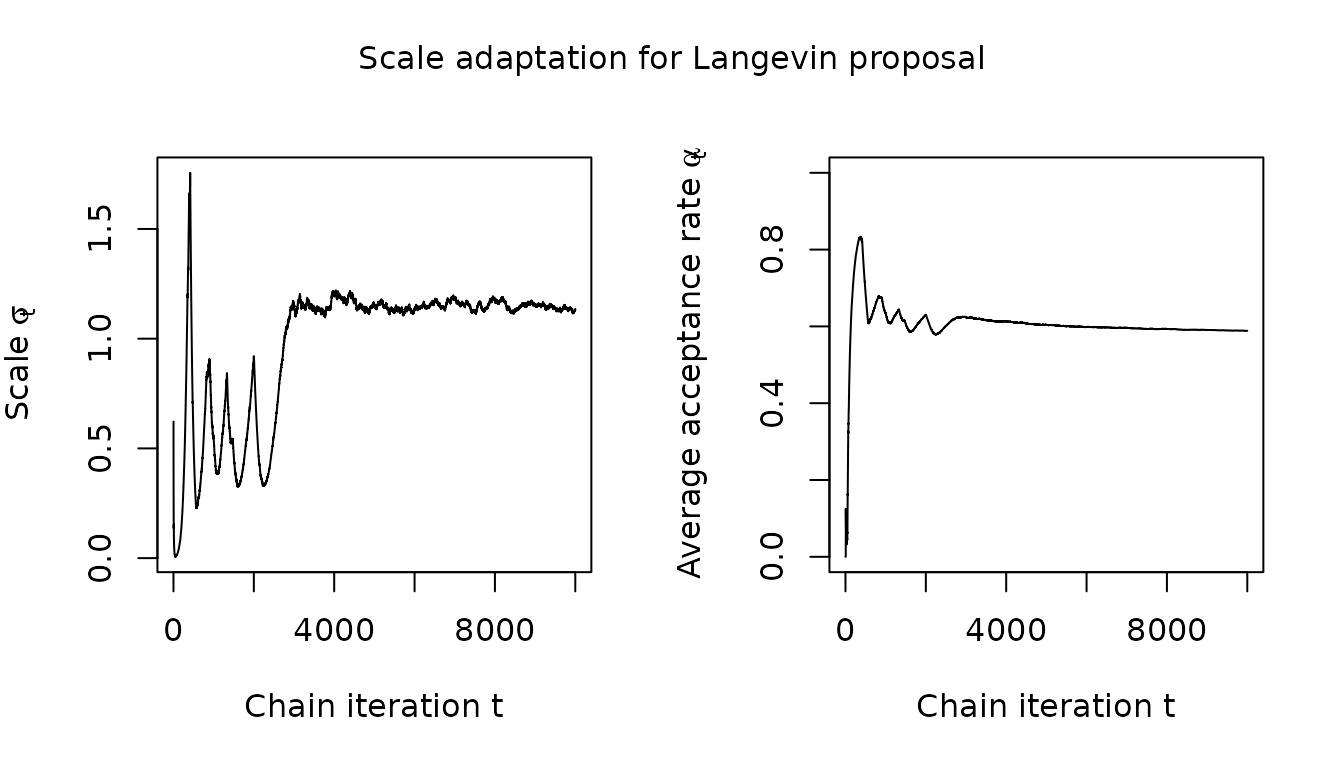
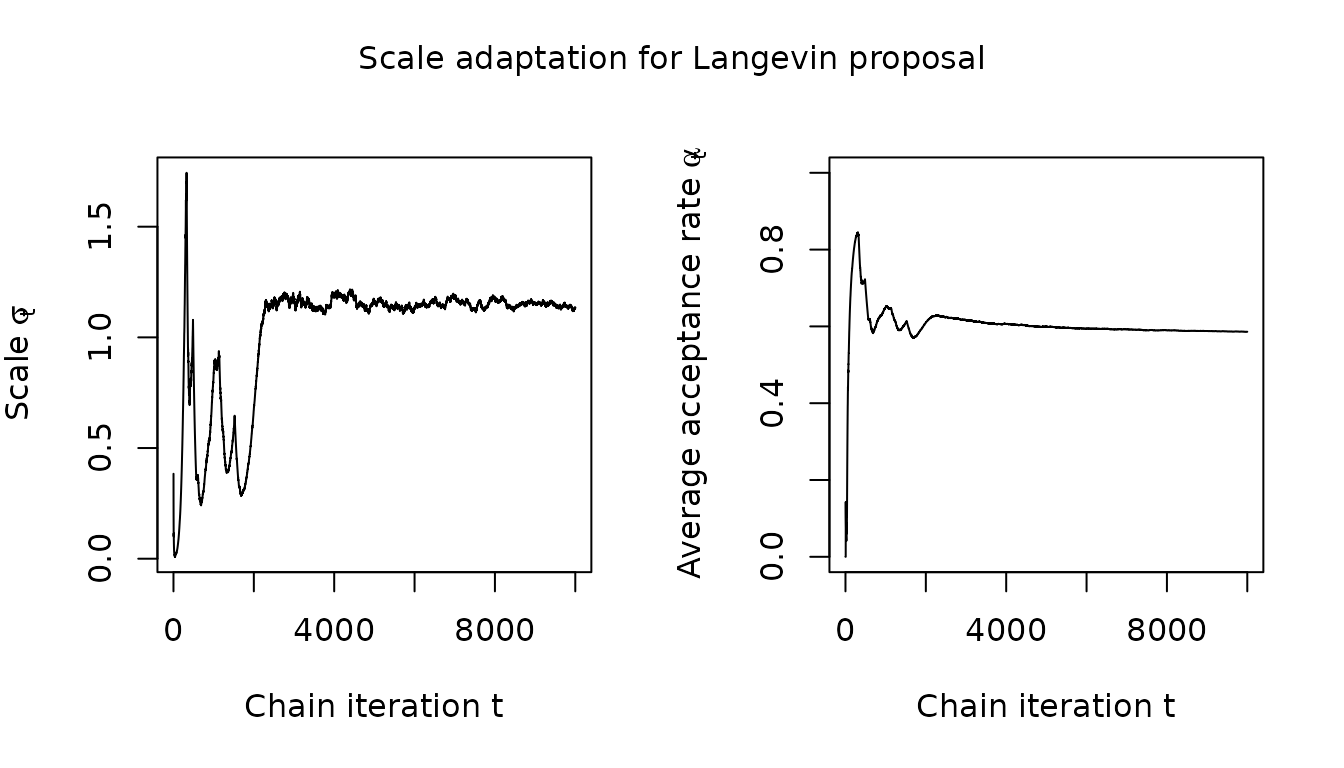
Deploying to gh-pages from @ UCL/rmcmc@68d5de52ab73f8508fa9621f169f3a752a493130 🚀

diff --git a/articles/barker-proposal.html b/articles/barker-proposal.html
@@ -151,22 +151,18 @@ distribution.</p>
 <div class="sourceCode" id="cb5"><pre class="downlit sourceCode r">
 <code class="sourceCode R"><span><span class="va">adapters</span> <span class="op">&lt;-</span> <span class="fu"><a href="https://rdrr.io/r/base/list.html" class="external-link">list</a></span><span class="op">(</span></span>
 <span>  <span class="fu"><a href="../reference/simple_scale_adapter.html">simple_scale_adapter</a></span><span class="op">(</span></span>
-<span>    initial_scale <span class="op">=</span> <span class="fl">2.38</span><span class="op">^</span><span class="fl">2</span> <span class="op">/</span> <span class="va">dimension</span><span class="op">^</span><span class="op">(</span><span class="fl">1</span> <span class="op">/</span> <span class="fl">3</span><span class="op">)</span>,</span>
-<span>    target_accept_prob <span class="op">=</span> <span class="fl">0.4</span></span>
+<span>    initial_scale <span class="op">=</span> <span class="va">dimension</span><span class="op">^</span><span class="op">(</span><span class="op">-</span><span class="fl">1</span> <span class="op">/</span> <span class="fl">6</span><span class="op">)</span>,</span>
+<span>    target_accept_prob <span class="op">=</span> <span class="fl">0.574</span></span>
 <span>  <span class="op">)</span>,</span>
 <span>  <span class="fu"><a href="../reference/variance_shape_adapter.html">variance_shape_adapter</a></span><span class="op">(</span><span class="op">)</span></span>
 <span><span class="op">)</span></span></code></pre></div>
 <p>Here we set the initial scale to
-<math display="inline" xmlns="http://www.w3.org/1998/Math/MathML"><semantics><mrow><msup><mn>2.38</mn><mn>2</mn></msup><mi>/</mi><msup><mrow><mo stretchy="true" form="prefix">(</mo><mtext mathvariant="normal">dimension</mtext><mo stretchy="true" form="postfix">)</mo></mrow><mfrac><mn>1</mn><mn>3</mn></mfrac></msup></mrow><annotation encoding="application/x-tex">2.38^2/(\text{dimension})^{\frac{1}{3}}</annotation></semantics></math>
-following the results for MALA in <span class="citation">Roberts and
-Rosenthal (<a href="#ref-roberts2001optimal">2001</a>)</span>, and set
-the target acceptance probability to 0.4 following the guideline in
-<span class="citation">Livingstone and Zanella (<a href="#ref-livingstone2022barker">2022</a>)</span>. This is equivalent
-to the default behaviour when not specifying the
-<code>initial_scale</code> and <code>target_accept_prob</code>
-arguments, in which case proposal and dimension dependent values
-following the guidelines in <span class="citation">Roberts and Rosenthal
-(<a href="#ref-roberts2001optimal">2001</a>)</span> and <span class="citation">Livingstone and Zanella (<a href="#ref-livingstone2022barker">2022</a>)</span> will be used. Both
+<math display="inline" xmlns="http://www.w3.org/1998/Math/MathML"><semantics><mrow><mi>𝒪</mi><mrow><mo stretchy="true" form="prefix">(</mo><msup><mtext mathvariant="normal">dimension</mtext><mrow><mo>−</mo><mfrac><mn>1</mn><mn>6</mn></mfrac></mrow></msup><mo stretchy="true" form="postfix">)</mo></mrow></mrow><annotation encoding="application/x-tex">\mathcal{O}(\text{dimension}^{-\frac{1}{6}})</annotation></semantics></math>
+and the target acceptance probability to 0.574 following the guidelines
+in <span class="citation">Vogrinc, Livingstone, and Zanella (<a href="#ref-vogrinc2023optimal">2023</a>)</span>. This is equivalent to
+the default behaviour when not specifying the <code>initial_scale</code>
+and <code>target_accept_prob</code> arguments, in which case proposal
+and dimension dependent values following the guidelines in <span class="citation">Vogrinc, Livingstone, and Zanella (<a href="#ref-vogrinc2023optimal">2023</a>)</span> will be used. Both
 adapters have an optional <code>kappa</code> argument which can be used
 to set the decay rate exponent for the adaptation learning rate. We
 leave this as the default value of 0.6 (following the recommendation in
@@ -205,9 +201,13 @@ non-adaptive main chain iterations and list of adapters to use.</p>
 <div class="sourceCode" id="cb7"><pre class="downlit sourceCode r">
 <code class="sourceCode R"><span><span class="va">n_warm_up_iteration</span> <span class="op">&lt;-</span> <span class="fl">10000</span></span>
 <span><span class="va">n_main_iteration</span> <span class="op">&lt;-</span> <span class="fl">10000</span></span></code></pre></div>
-<p>Here we sample a chain with 10^{4} warm-up and 10^{4} main chain
-iterations. We set <code>trace_warm_up</code> to <code>TRUE</code> to
-record statistics during the adaptive warm-up chain iterations.</p>
+<p>Here we sample a chain with
+<math display="inline" xmlns="http://www.w3.org/1998/Math/MathML"><semantics><msup><mn>10</mn><mn>4</mn></msup><annotation encoding="application/x-tex">10^{4}</annotation></semantics></math>
+warm-up and
+<math display="inline" xmlns="http://www.w3.org/1998/Math/MathML"><semantics><msup><mn>10</mn><mn>4</mn></msup><annotation encoding="application/x-tex">10^{4}</annotation></semantics></math>
+main chain iterations. We set <code>trace_warm_up</code> to
+<code>TRUE</code> to record statistics during the adaptive warm-up chain
+iterations.</p>
 <div class="sourceCode" id="cb8"><pre class="downlit sourceCode r">
 <code class="sourceCode R"><span><span class="va">barker_results</span> <span class="op">&lt;-</span> <span class="fu"><a href="../reference/sample_chain.html">sample_chain</a></span><span class="op">(</span></span>
 <span>  target_distribution <span class="op">=</span> <span class="va">target_distribution</span>,</span>
@@ -237,8 +237,8 @@ probability of the main chain iterations as follows:</p>
 <div class="sourceCode" id="cb9"><pre class="downlit sourceCode r">
 <code class="sourceCode R"><span><span class="va">mean_accept_prob</span> <span class="op">&lt;-</span> <span class="fu"><a href="https://rdrr.io/r/base/mean.html" class="external-link">mean</a></span><span class="op">(</span><span class="va">barker_results</span><span class="op">$</span><span class="va">statistics</span><span class="op">[</span>, <span class="st">"accept_prob"</span><span class="op">]</span><span class="op">)</span></span>
 <span><span class="fu"><a href="https://rdrr.io/r/base/cat.html" class="external-link">cat</a></span><span class="op">(</span><span class="fu"><a href="https://rdrr.io/r/base/sprintf.html" class="external-link">sprintf</a></span><span class="op">(</span><span class="st">"Average acceptance probability is %.2f"</span>, <span class="va">mean_accept_prob</span><span class="op">)</span><span class="op">)</span></span>
-<span><span class="co">#&gt; Average acceptance probability is 0.38</span></span></code></pre></div>
-<p>This is close to the target acceptance rate of 0.4 indicating the
+<span><span class="co">#&gt; Average acceptance probability is 0.57</span></span></code></pre></div>
+<p>This is close to the target acceptance rate of 0.574 indicating the
 scale adaptation worked as expected.</p>
 <p>We can also inspect the shape parameter of the proposal to check the
 variance based shape adaptation succeeded. The below snippet extracts
@@ -253,7 +253,7 @@ the (first few dimensions of the) adapted shape from the
 <span>  <span class="fu"><a href="https://rdrr.io/r/base/sprintf.html" class="external-link">sprintf</a></span><span class="op">(</span><span class="st">"True target scales: %s"</span>, <span class="fu"><a href="https://rdrr.io/r/base/toString.html" class="external-link">toString</a></span><span class="op">(</span><span class="va">scales</span><span class="op">[</span><span class="fl">1</span><span class="op">:</span><span class="va">clipped_dimension</span><span class="op">]</span><span class="op">)</span><span class="op">)</span>,</span>
 <span>  sep <span class="op">=</span> <span class="st">"\n"</span></span>
 <span><span class="op">)</span></span>
-<span><span class="co">#&gt; Adapter scale est.: 0.0106860943277528, 0.90522823483678, 0.847338974552089, 0.764798716268774, 0.758552106344874</span></span>
+<span><span class="co">#&gt; Adapter scale est.: 0.00837397174060859, 0.903666144812827, 0.743247392562424, 0.867223071521973, 0.93934619853388</span></span>
 <span><span class="co">#&gt; True target scales: 0.01, 1, 1, 1, 1</span></span></code></pre></div>
 <p>Again adaptation appears to have been successful with the adapted
 shape close to the true target scales.</p>
@@ -289,17 +289,17 @@ of summary statistics and diagnostic measures for each variable.</p>
 <span><span class="co">#&gt; <span style="color: #949494;"># A tibble: 11 × 10</span></span></span>
 <span><span class="co">#&gt;    variable         mean   median      sd     mad      q5     q95  rhat ess_bulk</span></span>
 <span><span class="co">#&gt;    <span style="color: #949494; font-style: italic;">&lt;chr&gt;</span>           <span style="color: #949494; font-style: italic;">&lt;dbl&gt;</span>    <span style="color: #949494; font-style: italic;">&lt;dbl&gt;</span>   <span style="color: #949494; font-style: italic;">&lt;dbl&gt;</span>   <span style="color: #949494; font-style: italic;">&lt;dbl&gt;</span>   <span style="color: #949494; font-style: italic;">&lt;dbl&gt;</span>   <span style="color: #949494; font-style: italic;">&lt;dbl&gt;</span> <span style="color: #949494; font-style: italic;">&lt;dbl&gt;</span>    <span style="color: #949494; font-style: italic;">&lt;dbl&gt;</span></span></span>
-<span><span class="co">#&gt; <span style="color: #BCBCBC;"> 1</span> position1    -<span style="color: #BB0000;">2.39</span><span style="color: #949494;">e</span><span style="color: #BB0000;">-4</span> -<span style="color: #BB0000;">2.30</span><span style="color: #949494;">e</span><span style="color: #BB0000;">-4</span> 0.009<span style="text-decoration: underline;">19</span> 0.009<span style="text-decoration: underline;">81</span> -<span style="color: #BB0000;">0.015</span><span style="color: #BB0000; text-decoration: underline;">3</span>  0.014<span style="text-decoration: underline;">7</span>  1.00    <span style="text-decoration: underline;">1</span>654.</span></span>
-<span><span class="co">#&gt; <span style="color: #BCBCBC;"> 2</span> position2     1.13<span style="color: #949494;">e</span><span style="color: #BB0000;">-2</span> -<span style="color: #BB0000;">2.48</span><span style="color: #949494;">e</span><span style="color: #BB0000;">-2</span> 0.906   0.967   -<span style="color: #BB0000;">1.39</span>    1.55    1.00    <span style="text-decoration: underline;">1</span>227.</span></span>
-<span><span class="co">#&gt; <span style="color: #BCBCBC;"> 3</span> position3     3.96<span style="color: #949494;">e</span><span style="color: #BB0000;">-2</span>  6.50<span style="color: #949494;">e</span><span style="color: #BB0000;">-2</span> 0.898   0.906   -<span style="color: #BB0000;">1.48</span>    1.49    1.00    <span style="text-decoration: underline;">1</span>105.</span></span>
-<span><span class="co">#&gt; <span style="color: #BCBCBC;"> 4</span> position4     1.77<span style="color: #949494;">e</span><span style="color: #BB0000;">-2</span>  2.20<span style="color: #949494;">e</span><span style="color: #BB0000;">-2</span> 0.881   0.925   -<span style="color: #BB0000;">1.44</span>    1.49    1.00     961.</span></span>
-<span><span class="co">#&gt; <span style="color: #BCBCBC;"> 5</span> position5     1.25<span style="color: #949494;">e</span><span style="color: #BB0000;">-2</span> -<span style="color: #BB0000;">1.56</span><span style="color: #949494;">e</span><span style="color: #BB0000;">-2</span> 0.895   0.940   -<span style="color: #BB0000;">1.46</span>    1.50    1.00     912.</span></span>
-<span><span class="co">#&gt; <span style="color: #BCBCBC;"> 6</span> position6    -<span style="color: #BB0000;">3.60</span><span style="color: #949494;">e</span><span style="color: #BB0000;">-2</span> -<span style="color: #BB0000;">2.38</span><span style="color: #949494;">e</span><span style="color: #BB0000;">-2</span> 0.900   0.903   -<span style="color: #BB0000;">1.50</span>    1.44    1.00     925.</span></span>
-<span><span class="co">#&gt; <span style="color: #BCBCBC;"> 7</span> position7     7.59<span style="color: #949494;">e</span><span style="color: #BB0000;">-3</span>  8.81<span style="color: #949494;">e</span><span style="color: #BB0000;">-4</span> 0.894   0.909   -<span style="color: #BB0000;">1.45</span>    1.52    1.00    <span style="text-decoration: underline;">1</span>163.</span></span>
-<span><span class="co">#&gt; <span style="color: #BCBCBC;"> 8</span> position8    -<span style="color: #BB0000;">4.03</span><span style="color: #949494;">e</span><span style="color: #BB0000;">-3</span>  1.02<span style="color: #949494;">e</span><span style="color: #BB0000;">-2</span> 0.928   0.970   -<span style="color: #BB0000;">1.53</span>    1.53    1.01     901.</span></span>
-<span><span class="co">#&gt; <span style="color: #BCBCBC;"> 9</span> position9    -<span style="color: #BB0000;">4.57</span><span style="color: #949494;">e</span><span style="color: #BB0000;">-2</span> -<span style="color: #BB0000;">8.32</span><span style="color: #949494;">e</span><span style="color: #BB0000;">-2</span> 0.908   0.905   -<span style="color: #BB0000;">1.53</span>    1.50    1.00    <span style="text-decoration: underline;">1</span>042.</span></span>
-<span><span class="co">#&gt; <span style="color: #BCBCBC;">10</span> position10   -<span style="color: #BB0000;">1.50</span><span style="color: #949494;">e</span><span style="color: #BB0000;">-2</span> -<span style="color: #BB0000;">1.15</span><span style="color: #949494;">e</span><span style="color: #BB0000;">-2</span> 0.931   0.977   -<span style="color: #BB0000;">1.53</span>    1.47    1.00    <span style="text-decoration: underline;">1</span>398.</span></span>
-<span><span class="co">#&gt; <span style="color: #BCBCBC;">11</span> target_log_… -<span style="color: #BB0000;">4.11</span><span style="color: #949494;">e</span>+0 -<span style="color: #BB0000;">4.00</span><span style="color: #949494;">e</span>+0 1.59    1.58    -<span style="color: #BB0000;">6.94</span>   -<span style="color: #BB0000;">1.78</span>    1.00     831.</span></span>
+<span><span class="co">#&gt; <span style="color: #BCBCBC;"> 1</span> position1     2.56<span style="color: #949494;">e</span><span style="color: #BB0000;">-5</span>  8.66<span style="color: #949494;">e</span><span style="color: #BB0000;">-5</span> 0.008<span style="text-decoration: underline;">68</span> 0.008<span style="text-decoration: underline;">92</span> -<span style="color: #BB0000;">0.014</span><span style="color: #BB0000; text-decoration: underline;">6</span>  0.014<span style="text-decoration: underline;">2</span>  1.00     964.</span></span>
+<span><span class="co">#&gt; <span style="color: #BCBCBC;"> 2</span> position2     2.33<span style="color: #949494;">e</span><span style="color: #BB0000;">-2</span>  4.24<span style="color: #949494;">e</span><span style="color: #BB0000;">-2</span> 0.868   0.904   -<span style="color: #BB0000;">1.40</span>    1.46    1.00    <span style="text-decoration: underline;">1</span>031.</span></span>
+<span><span class="co">#&gt; <span style="color: #BCBCBC;"> 3</span> position3     5.41<span style="color: #949494;">e</span><span style="color: #BB0000;">-2</span>  4.50<span style="color: #949494;">e</span><span style="color: #BB0000;">-2</span> 0.843   0.844   -<span style="color: #BB0000;">1.31</span>    1.43    1.00     685.</span></span>
+<span><span class="co">#&gt; <span style="color: #BCBCBC;"> 4</span> position4    -<span style="color: #BB0000;">1.91</span><span style="color: #949494;">e</span><span style="color: #BB0000;">-2</span> -<span style="color: #BB0000;">2.46</span><span style="color: #949494;">e</span><span style="color: #BB0000;">-2</span> 0.879   0.899   -<span style="color: #BB0000;">1.45</span>    1.43    1.00     831.</span></span>
+<span><span class="co">#&gt; <span style="color: #BCBCBC;"> 5</span> position5     2.52<span style="color: #949494;">e</span><span style="color: #BB0000;">-2</span>  2.64<span style="color: #949494;">e</span><span style="color: #BB0000;">-2</span> 0.883   0.909   -<span style="color: #BB0000;">1.42</span>    1.49    1.00    <span style="text-decoration: underline;">1</span>188.</span></span>
+<span><span class="co">#&gt; <span style="color: #BCBCBC;"> 6</span> position6     2.39<span style="color: #949494;">e</span><span style="color: #BB0000;">-2</span>  1.45<span style="color: #949494;">e</span><span style="color: #BB0000;">-2</span> 0.872   0.910   -<span style="color: #BB0000;">1.42</span>    1.45    1.00     717.</span></span>
+<span><span class="co">#&gt; <span style="color: #BCBCBC;"> 7</span> position7     2.02<span style="color: #949494;">e</span><span style="color: #BB0000;">-2</span>  2.62<span style="color: #949494;">e</span><span style="color: #BB0000;">-2</span> 0.844   0.853   -<span style="color: #BB0000;">1.39</span>    1.40    1.00     798.</span></span>
+<span><span class="co">#&gt; <span style="color: #BCBCBC;"> 8</span> position8    -<span style="color: #BB0000;">2.68</span><span style="color: #949494;">e</span><span style="color: #BB0000;">-2</span> -<span style="color: #BB0000;">3.56</span><span style="color: #949494;">e</span><span style="color: #BB0000;">-2</span> 0.852   0.856   -<span style="color: #BB0000;">1.44</span>    1.40    1.00     700.</span></span>
+<span><span class="co">#&gt; <span style="color: #BCBCBC;"> 9</span> position9    -<span style="color: #BB0000;">4.67</span><span style="color: #949494;">e</span><span style="color: #BB0000;">-2</span> -<span style="color: #BB0000;">4.58</span><span style="color: #949494;">e</span><span style="color: #BB0000;">-2</span> 0.870   0.902   -<span style="color: #BB0000;">1.45</span>    1.37    1.00    <span style="text-decoration: underline;">1</span>088.</span></span>
+<span><span class="co">#&gt; <span style="color: #BCBCBC;">10</span> position10   -<span style="color: #BB0000;">3.19</span><span style="color: #949494;">e</span><span style="color: #BB0000;">-2</span> -<span style="color: #BB0000;">4.29</span><span style="color: #949494;">e</span><span style="color: #BB0000;">-2</span> 0.855   0.899   -<span style="color: #BB0000;">1.40</span>    1.36    1.00     927.</span></span>
+<span><span class="co">#&gt; <span style="color: #BCBCBC;">11</span> target_log_… -<span style="color: #BB0000;">3.73</span><span style="color: #949494;">e</span>+0 -<span style="color: #BB0000;">3.58</span><span style="color: #949494;">e</span>+0 1.47    1.45    -<span style="color: #BB0000;">6.43</span>   -<span style="color: #BB0000;">1.62</span>    1.00     994.</span></span>
 <span><span class="co">#&gt; <span style="color: #949494;"># ℹ 1 more variable: ess_tail &lt;dbl&gt;</span></span></span></code></pre></div>
 <p>We can also first explicit convert the <code>traces</code> matrix to
 a <code>posterior</code> draws object using the
@@ -311,17 +311,17 @@ a <code>posterior</code> draws object using the
 <span><span class="co">#&gt; <span style="color: #949494;"># A tibble: 11 × 10</span></span></span>
 <span><span class="co">#&gt;    variable         mean   median      sd     mad      q5     q95  rhat ess_bulk</span></span>
 <span><span class="co">#&gt;    <span style="color: #949494; font-style: italic;">&lt;chr&gt;</span>           <span style="color: #949494; font-style: italic;">&lt;dbl&gt;</span>    <span style="color: #949494; font-style: italic;">&lt;dbl&gt;</span>   <span style="color: #949494; font-style: italic;">&lt;dbl&gt;</span>   <span style="color: #949494; font-style: italic;">&lt;dbl&gt;</span>   <span style="color: #949494; font-style: italic;">&lt;dbl&gt;</span>   <span style="color: #949494; font-style: italic;">&lt;dbl&gt;</span> <span style="color: #949494; font-style: italic;">&lt;dbl&gt;</span>    <span style="color: #949494; font-style: italic;">&lt;dbl&gt;</span></span></span>
-<span><span class="co">#&gt; <span style="color: #BCBCBC;"> 1</span> position1    -<span style="color: #BB0000;">2.39</span><span style="color: #949494;">e</span><span style="color: #BB0000;">-4</span> -<span style="color: #BB0000;">2.30</span><span style="color: #949494;">e</span><span style="color: #BB0000;">-4</span> 0.009<span style="text-decoration: underline;">19</span> 0.009<span style="text-decoration: underline;">81</span> -<span style="color: #BB0000;">0.015</span><span style="color: #BB0000; text-decoration: underline;">3</span>  0.014<span style="text-decoration: underline;">7</span>  1.00    <span style="text-decoration: underline;">1</span>654.</span></span>
-<span><span class="co">#&gt; <span style="color: #BCBCBC;"> 2</span> position2     1.13<span style="color: #949494;">e</span><span style="color: #BB0000;">-2</span> -<span style="color: #BB0000;">2.48</span><span style="color: #949494;">e</span><span style="color: #BB0000;">-2</span> 0.906   0.967   -<span style="color: #BB0000;">1.39</span>    1.55    1.00    <span style="text-decoration: underline;">1</span>227.</span></span>
-<span><span class="co">#&gt; <span style="color: #BCBCBC;"> 3</span> position3     3.96<span style="color: #949494;">e</span><span style="color: #BB0000;">-2</span>  6.50<span style="color: #949494;">e</span><span style="color: #BB0000;">-2</span> 0.898   0.906   -<span style="color: #BB0000;">1.48</span>    1.49    1.00    <span style="text-decoration: underline;">1</span>105.</span></span>
-<span><span class="co">#&gt; <span style="color: #BCBCBC;"> 4</span> position4     1.77<span style="color: #949494;">e</span><span style="color: #BB0000;">-2</span>  2.20<span style="color: #949494;">e</span><span style="color: #BB0000;">-2</span> 0.881   0.925   -<span style="color: #BB0000;">1.44</span>    1.49    1.00     961.</span></span>
-<span><span class="co">#&gt; <span style="color: #BCBCBC;"> 5</span> position5     1.25<span style="color: #949494;">e</span><span style="color: #BB0000;">-2</span> -<span style="color: #BB0000;">1.56</span><span style="color: #949494;">e</span><span style="color: #BB0000;">-2</span> 0.895   0.940   -<span style="color: #BB0000;">1.46</span>    1.50    1.00     912.</span></span>
-<span><span class="co">#&gt; <span style="color: #BCBCBC;"> 6</span> position6    -<span style="color: #BB0000;">3.60</span><span style="color: #949494;">e</span><span style="color: #BB0000;">-2</span> -<span style="color: #BB0000;">2.38</span><span style="color: #949494;">e</span><span style="color: #BB0000;">-2</span> 0.900   0.903   -<span style="color: #BB0000;">1.50</span>    1.44    1.00     925.</span></span>
-<span><span class="co">#&gt; <span style="color: #BCBCBC;"> 7</span> position7     7.59<span style="color: #949494;">e</span><span style="color: #BB0000;">-3</span>  8.81<span style="color: #949494;">e</span><span style="color: #BB0000;">-4</span> 0.894   0.909   -<span style="color: #BB0000;">1.45</span>    1.52    1.00    <span style="text-decoration: underline;">1</span>163.</span></span>
-<span><span class="co">#&gt; <span style="color: #BCBCBC;"> 8</span> position8    -<span style="color: #BB0000;">4.03</span><span style="color: #949494;">e</span><span style="color: #BB0000;">-3</span>  1.02<span style="color: #949494;">e</span><span style="color: #BB0000;">-2</span> 0.928   0.970   -<span style="color: #BB0000;">1.53</span>    1.53    1.01     901.</span></span>
-<span><span class="co">#&gt; <span style="color: #BCBCBC;"> 9</span> position9    -<span style="color: #BB0000;">4.57</span><span style="color: #949494;">e</span><span style="color: #BB0000;">-2</span> -<span style="color: #BB0000;">8.32</span><span style="color: #949494;">e</span><span style="color: #BB0000;">-2</span> 0.908   0.905   -<span style="color: #BB0000;">1.53</span>    1.50    1.00    <span style="text-decoration: underline;">1</span>042.</span></span>
-<span><span class="co">#&gt; <span style="color: #BCBCBC;">10</span> position10   -<span style="color: #BB0000;">1.50</span><span style="color: #949494;">e</span><span style="color: #BB0000;">-2</span> -<span style="color: #BB0000;">1.15</span><span style="color: #949494;">e</span><span style="color: #BB0000;">-2</span> 0.931   0.977   -<span style="color: #BB0000;">1.53</span>    1.47    1.00    <span style="text-decoration: underline;">1</span>398.</span></span>
-<span><span class="co">#&gt; <span style="color: #BCBCBC;">11</span> target_log_… -<span style="color: #BB0000;">4.11</span><span style="color: #949494;">e</span>+0 -<span style="color: #BB0000;">4.00</span><span style="color: #949494;">e</span>+0 1.59    1.58    -<span style="color: #BB0000;">6.94</span>   -<span style="color: #BB0000;">1.78</span>    1.00     831.</span></span>
+<span><span class="co">#&gt; <span style="color: #BCBCBC;"> 1</span> position1     2.56<span style="color: #949494;">e</span><span style="color: #BB0000;">-5</span>  8.66<span style="color: #949494;">e</span><span style="color: #BB0000;">-5</span> 0.008<span style="text-decoration: underline;">68</span> 0.008<span style="text-decoration: underline;">92</span> -<span style="color: #BB0000;">0.014</span><span style="color: #BB0000; text-decoration: underline;">6</span>  0.014<span style="text-decoration: underline;">2</span>  1.00     964.</span></span>
+<span><span class="co">#&gt; <span style="color: #BCBCBC;"> 2</span> position2     2.33<span style="color: #949494;">e</span><span style="color: #BB0000;">-2</span>  4.24<span style="color: #949494;">e</span><span style="color: #BB0000;">-2</span> 0.868   0.904   -<span style="color: #BB0000;">1.40</span>    1.46    1.00    <span style="text-decoration: underline;">1</span>031.</span></span>
+<span><span class="co">#&gt; <span style="color: #BCBCBC;"> 3</span> position3     5.41<span style="color: #949494;">e</span><span style="color: #BB0000;">-2</span>  4.50<span style="color: #949494;">e</span><span style="color: #BB0000;">-2</span> 0.843   0.844   -<span style="color: #BB0000;">1.31</span>    1.43    1.00     685.</span></span>
+<span><span class="co">#&gt; <span style="color: #BCBCBC;"> 4</span> position4    -<span style="color: #BB0000;">1.91</span><span style="color: #949494;">e</span><span style="color: #BB0000;">-2</span> -<span style="color: #BB0000;">2.46</span><span style="color: #949494;">e</span><span style="color: #BB0000;">-2</span> 0.879   0.899   -<span style="color: #BB0000;">1.45</span>    1.43    1.00     831.</span></span>
+<span><span class="co">#&gt; <span style="color: #BCBCBC;"> 5</span> position5     2.52<span style="color: #949494;">e</span><span style="color: #BB0000;">-2</span>  2.64<span style="color: #949494;">e</span><span style="color: #BB0000;">-2</span> 0.883   0.909   -<span style="color: #BB0000;">1.42</span>    1.49    1.00    <span style="text-decoration: underline;">1</span>188.</span></span>
+<span><span class="co">#&gt; <span style="color: #BCBCBC;"> 6</span> position6     2.39<span style="color: #949494;">e</span><span style="color: #BB0000;">-2</span>  1.45<span style="color: #949494;">e</span><span style="color: #BB0000;">-2</span> 0.872   0.910   -<span style="color: #BB0000;">1.42</span>    1.45    1.00     717.</span></span>
+<span><span class="co">#&gt; <span style="color: #BCBCBC;"> 7</span> position7     2.02<span style="color: #949494;">e</span><span style="color: #BB0000;">-2</span>  2.62<span style="color: #949494;">e</span><span style="color: #BB0000;">-2</span> 0.844   0.853   -<span style="color: #BB0000;">1.39</span>    1.40    1.00     798.</span></span>
+<span><span class="co">#&gt; <span style="color: #BCBCBC;"> 8</span> position8    -<span style="color: #BB0000;">2.68</span><span style="color: #949494;">e</span><span style="color: #BB0000;">-2</span> -<span style="color: #BB0000;">3.56</span><span style="color: #949494;">e</span><span style="color: #BB0000;">-2</span> 0.852   0.856   -<span style="color: #BB0000;">1.44</span>    1.40    1.00     700.</span></span>
+<span><span class="co">#&gt; <span style="color: #BCBCBC;"> 9</span> position9    -<span style="color: #BB0000;">4.67</span><span style="color: #949494;">e</span><span style="color: #BB0000;">-2</span> -<span style="color: #BB0000;">4.58</span><span style="color: #949494;">e</span><span style="color: #BB0000;">-2</span> 0.870   0.902   -<span style="color: #BB0000;">1.45</span>    1.37    1.00    <span style="text-decoration: underline;">1</span>088.</span></span>
+<span><span class="co">#&gt; <span style="color: #BCBCBC;">10</span> position10   -<span style="color: #BB0000;">3.19</span><span style="color: #949494;">e</span><span style="color: #BB0000;">-2</span> -<span style="color: #BB0000;">4.29</span><span style="color: #949494;">e</span><span style="color: #BB0000;">-2</span> 0.855   0.899   -<span style="color: #BB0000;">1.40</span>    1.36    1.00     927.</span></span>
+<span><span class="co">#&gt; <span style="color: #BCBCBC;">11</span> target_log_… -<span style="color: #BB0000;">3.73</span><span style="color: #949494;">e</span>+0 -<span style="color: #BB0000;">3.58</span><span style="color: #949494;">e</span>+0 1.47    1.45    -<span style="color: #BB0000;">6.43</span>   -<span style="color: #BB0000;">1.62</span>    1.00     994.</span></span>
 <span><span class="co">#&gt; <span style="color: #949494;"># ℹ 1 more variable: ess_tail &lt;dbl&gt;</span></span></span></code></pre></div>
 <p>The draws object can also be manipulated and subsetted with various
 functions provided by <code>posterior</code>. For example the <a href="https://mc-stan.org/posterior/reference/extract_variable.html" class="external-link"><code>extract_variable</code>
@@ -337,7 +337,7 @@ we could do the following</p>
 <span>    <span class="fu"><a href="https://mc-stan.org/posterior/reference/ess_mean.html" class="external-link">ess_mean</a></span><span class="op">(</span><span class="fu"><a href="https://mc-stan.org/posterior/reference/extract_variable.html" class="external-link">extract_variable</a></span><span class="op">(</span><span class="va">draws</span>, <span class="st">"target_log_density"</span><span class="op">)</span><span class="op">)</span></span>
 <span>  <span class="op">)</span></span>
 <span><span class="op">)</span></span>
-<span><span class="co">#&gt; Effective sample size of mean(target_log_density) is 858</span></span></code></pre></div>
+<span><span class="co">#&gt; Effective sample size of mean(target_log_density) is 983</span></span></code></pre></div>
 </div>
 <div class="section level2">
 <h2 id="sampling-using-a-langevin-proposal">Sampling using a Langevin proposal<a class="anchor" aria-label="anchor" href="#sampling-using-a-langevin-proposal"></a>
@@ -347,7 +347,7 @@ we could do the following</p>
 <code>baker_proposal</code>.</p>
 <p>Here we create a new set of adapters using the default arguments to
 <code>simple_scale_adapter</code> which will set the target acceptance
-rate to the Langevin proposal specific value of 0.574 following the
+rate to the Langevin proposal optimal value of 0.574 following the
 results in <span class="citation">Roberts and Rosenthal (<a href="#ref-roberts2001optimal">2001</a>)</span>.</p>
 <div class="sourceCode" id="cb15"><pre class="downlit sourceCode r">
 <code class="sourceCode R"><span><span class="va">mala_results</span> <span class="op">&lt;-</span> <span class="fu"><a href="../reference/sample_chain.html">sample_chain</a></span><span class="op">(</span></span>
@@ -383,7 +383,7 @@ the mean of the <code>target_log_density</code> variable</p>
 <span>    <span class="op">)</span></span>
 <span>  <span class="op">)</span></span>
 <span><span class="op">)</span></span>
-<span><span class="co">#&gt; Effective sample size of mean(target_log_density) is 2904</span></span></code></pre></div>
+<span><span class="co">#&gt; Effective sample size of mean(target_log_density) is 2863</span></span></code></pre></div>
 </div>
 <div class="section level2">
 <h2 id="comparing-adaptation-using-barker-and-langevin-proposal">Comparing adaptation using Barker and Langevin proposal<a class="anchor" aria-label="anchor" href="#comparing-adaptation-using-barker-and-langevin-proposal"></a>
@@ -418,14 +418,14 @@ the <code>warm_up_statistics</code> entry in the list returned by
 <math display="inline" xmlns="http://www.w3.org/1998/Math/MathML"><semantics><msub><mi>σ</mi><mi>t</mi></msub><annotation encoding="application/x-tex">\sigma_t</annotation></semantics></math>,
 which is controlled to achieve a target average acceptance rate, we see
 that for Barker proposal the adaptation successfully coerces the average
-acceptance rate to be close to the 0.4 target value and that the scale
+acceptance rate to be close to the 0.574 target value and that the scale
 parameter adaptation has largely stabilized within the first 1000
 iterations.</p>
 <div class="sourceCode" id="cb19"><pre class="downlit sourceCode r">
 <code class="sourceCode R"><span><span class="fu">visualize_scale_adaptation</span><span class="op">(</span><span class="va">barker_results</span><span class="op">$</span><span class="va">warm_up_statistics</span>, <span class="st">"Barker proposal"</span><span class="op">)</span></span></code></pre></div>
 <p><img src="barker-proposal_files/figure-html/unnamed-chunk-19-1.png" width="672"></p>
 <p>For the Langevin proposal on the other hand, while the acceptance
-rate does eventually converge to its target value of 0.57, the
+rate does eventually converge to its target value of 0.574, the
 convergence is slower and there is more evidence of unstable oscillatory
 behaviour in the adapted scale.</p>
 <div class="sourceCode" id="cb20"><pre class="downlit sourceCode r">
@@ -526,6 +526,12 @@ Statistical Society Series B: Statistical Methodology</em> 84 (2):
 <div id="ref-roberts2001optimal" class="csl-entry">
 Roberts, Gareth O, and Jeffrey S Rosenthal. 2001. <span>“<span class="nocase">Optimal scaling for various Metropolis-Hastings
 algorithms</span>.”</span> <em>Statistical Science</em> 16 (4): 351–67.
+</div>
+<div id="ref-vogrinc2023optimal" class="csl-entry">
+Vogrinc, Jure, Samuel Livingstone, and Giacomo Zanella. 2023.
+<span>“Optimal Design of the Barker Proposal and Other Locally Balanced
+Metropolis–Hastings Algorithms.”</span> <em>Biometrika</em> 110 (3):
+579–95.
 </div>
 </div>
 </div>

diff --git a/index.html b/index.html
@@ -68,7 +68,7 @@
 <div class="section level2">
 <h2 id="example">Example<a class="anchor" aria-label="anchor" href="#example"></a>
 </h2>
-<p>This is a basic example which shows you how to generate samples from a normal target distribution with random scales. Adapters are used to tune the proposal scale to achieve a target average acceptance probability; to tune the proposal shape with per-dimension scale factors based on online estimates of the target distribution variances.</p>
+<p>This is a basic example which shows you how to generate samples from a normal target distribution with random scales. Adapters are used to tune the proposal scale to achieve a target average acceptance probability, and to tune the proposal shape with per-dimension scale factors based on online estimates of the target distribution variances.</p>
 <div class="sourceCode" id="cb2"><pre class="downlit sourceCode r">
 <code class="sourceCode R"><span><span class="kw"><a href="https://rdrr.io/r/base/library.html" class="external-link">library</a></span><span class="op">(</span><span class="va"><a href="https://github.com/UCL/rmcmc" class="external-link">rmcmc</a></span><span class="op">)</span></span>
 <span></span>
@@ -96,9 +96,9 @@
 <span>  <span class="fu"><a href="https://rdrr.io/r/base/sprintf.html" class="external-link">sprintf</a></span><span class="op">(</span><span class="st">"Adapter scale est.: %s"</span>, <span class="fu"><a href="https://rdrr.io/r/base/toString.html" class="external-link">toString</a></span><span class="op">(</span><span class="va">adapted_shape</span><span class="op">)</span><span class="op">)</span>,</span>
 <span>  sep <span class="op">=</span> <span class="st">"\n"</span></span>
 <span><span class="op">)</span></span>
-<span><span class="co">#&gt; Average acceptance probability is 0.41</span></span>
+<span><span class="co">#&gt; Average acceptance probability is 0.59</span></span>
 <span><span class="co">#&gt; True target scales: 1.50538046096953, 1.37774732725824, 0.277038897322645</span></span>
-<span><span class="co">#&gt; Adapter scale est.: 1.2489768457131, 1.23111560302158, 0.215024121396933</span></span></code></pre></div>
+<span><span class="co">#&gt; Adapter scale est.: 1.43398887990819, 1.22112523246304, 0.240554869853302</span></span></code></pre></div>
 </div>
 </div>
   </main><aside class="col-md-3"><div class="links">
